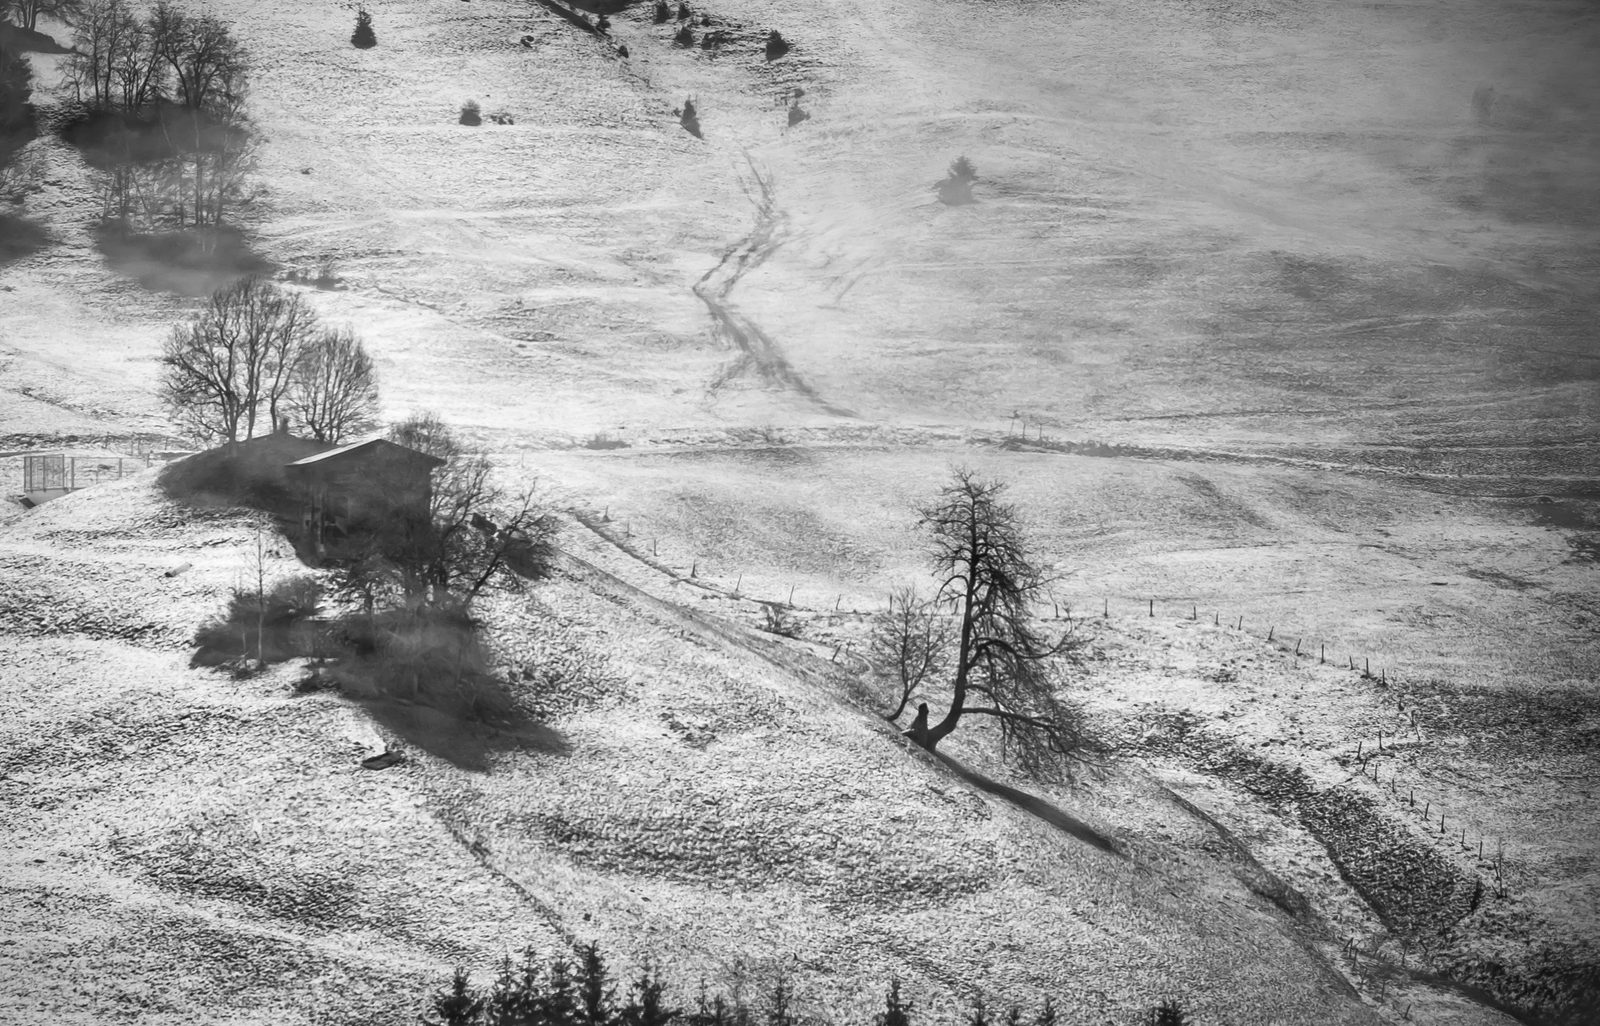
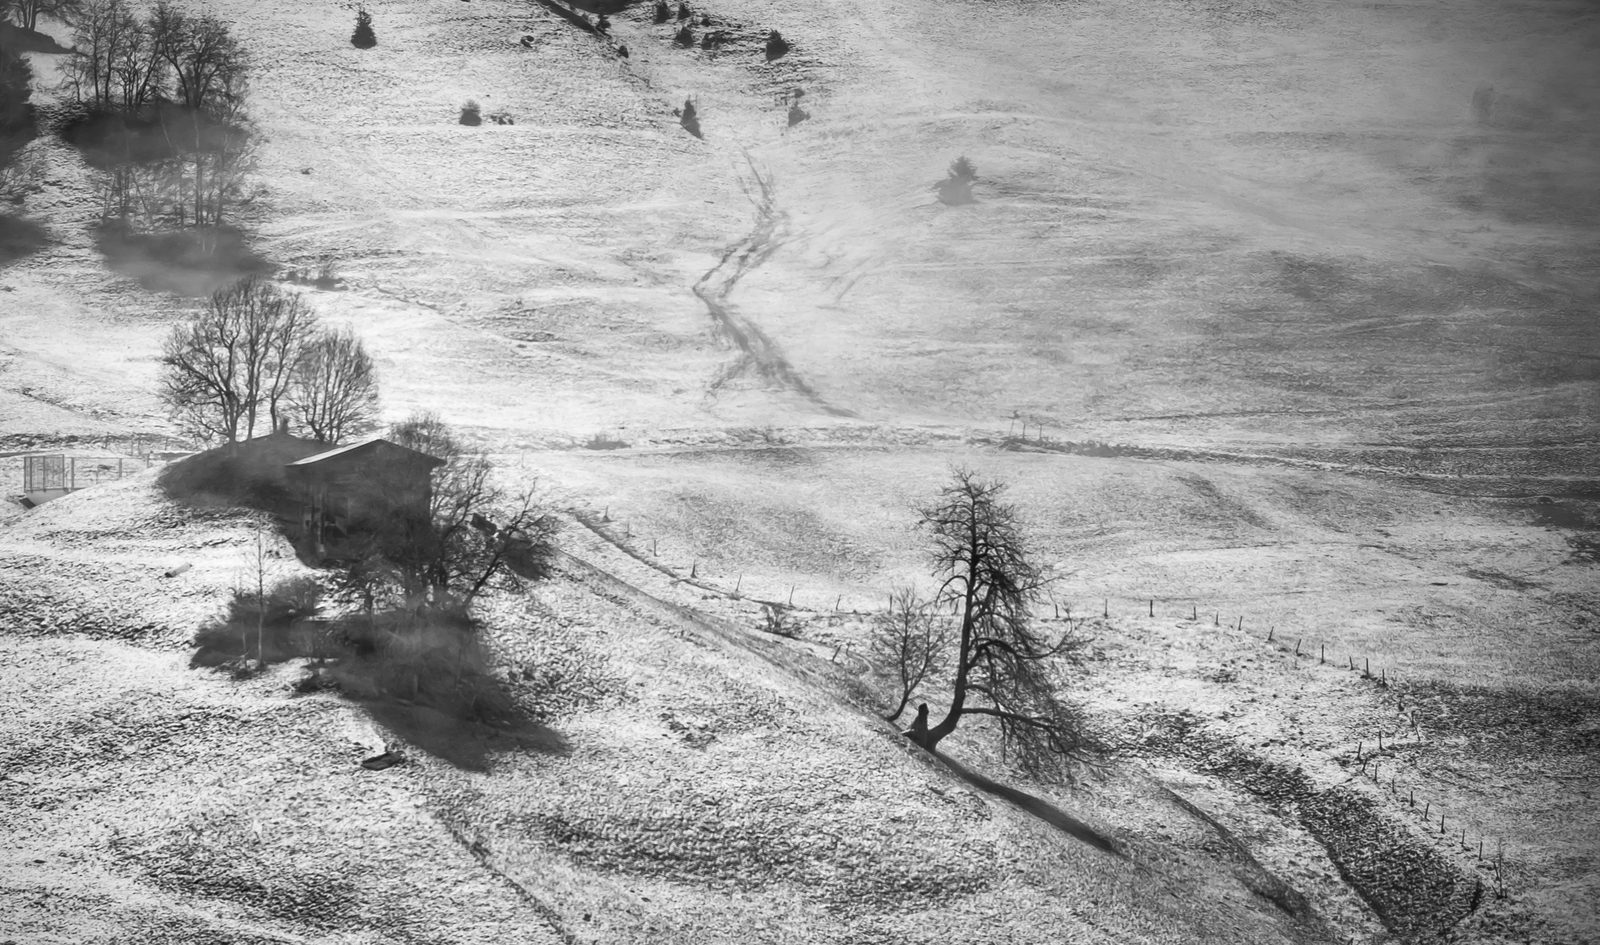
WIP: farm example ends on the final crop (conifers removed); not published

diff --git a/index.html b/index.html
@@ -178,8 +178,8 @@
           <figcaption>First version</figcaption>
         </figure>
         <figure>
-          <img src="images/farm-after.jpg" width="1600" height="1026" loading="lazy"
-               alt="Final version: cropped tighter from the top and bottom, the lone tree and its long shadow darker and more prominent, the farmhouse quieter, the snow brighter.">
+          <img src="images/farm-after.jpg" width="1600" height="945" loading="lazy"
+               alt="Final version: cropped from the top and bottom so the dark conifers along the lower edge are gone; the lone tree and its long shadow lead, the farmhouse is quieter, and the snow is brighter.">
           <figcaption>Final version</figcaption>
         </figure>
       </div>
@@ -223,6 +223,15 @@
         <div class="turn ai">
           <span class="who">Noemeo</span>
           <div class="said"><p class="aside">Compared with the previous version: closer to what you were going for</p><p>Yes—I see it now. You trimmed a narrow strip from the top: the height changed from 1331 to 1313 px, about 1.4%. That reduces the clipped dark intrusions and gives the upper edge a cleaner, quieter boundary without sacrificing the pale snow or track junction that provide breathing room above the foreground tree. The change is subtle but helpful; I would stop cropping here. Compared with the original, the broader crop also removes the distracting bottom-edge conifers and keeps the tree and its long shadow more prominent. The snow remains brighter and more open than in the original, so some delicate mid-field texture is less pronounced, but that tonal drift is not caused by this latest crop.</p></div>
+        </div>
+        <p class="omitted">Some turns omitted</p>
+        <div class="turn me">
+          <span class="who">Photographer</span>
+          <div class="said"><p>I completely cropped out the bottom-edge distraction. Does this image look cleaner now?</p></div>
+        </div>
+        <div class="turn ai">
+          <span class="who">Noemeo</span>
+          <div class="said"><p class="aside">Compared with the previous version: closer to what you were going for</p><p>Yes. The bottom-edge conifers are completely gone, and the lower boundary now consists only of the patterned snowfield. That makes the frame cleaner and prevents a dark, clipped foreground band from competing with the isolated tree and its shadow. The crop also feels intentional rather than cramped: there is still enough snow below the shadow and diagonal track to support the composition. Compared with the previous version, this is a helpful change; compared with the original, it substantially simplifies both the bottom and top boundaries. I would stop cropping here—the foreground tree is already fairly close to the lower-right edge, and any further reduction would begin to squeeze it.</p></div>
         </div>
       </div>
       <p class="fine">Excerpt from a real session, shared by the photographer. Noemeo’s replies are unedited; some turns are left out, and typos in the photographer’s messages are corrected.</p>
